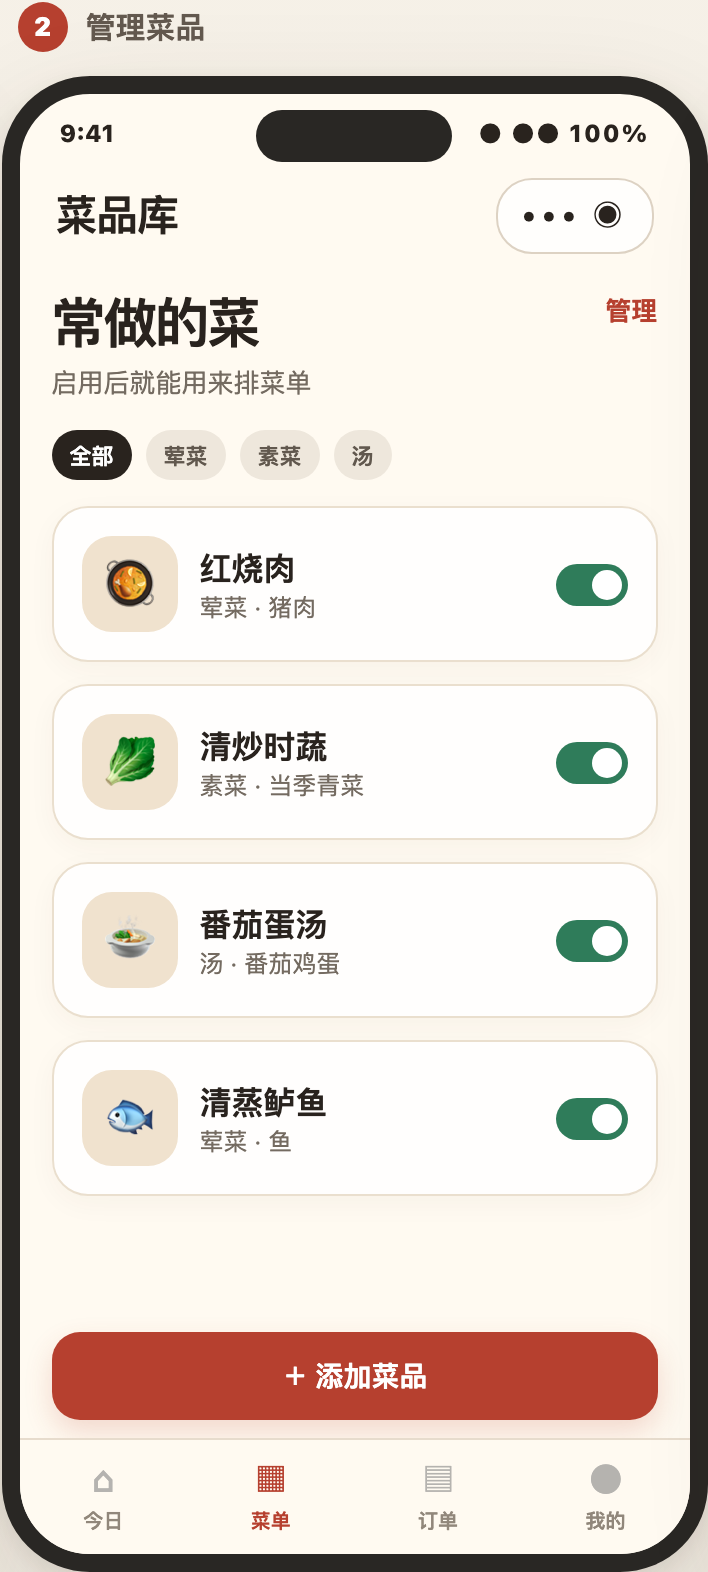
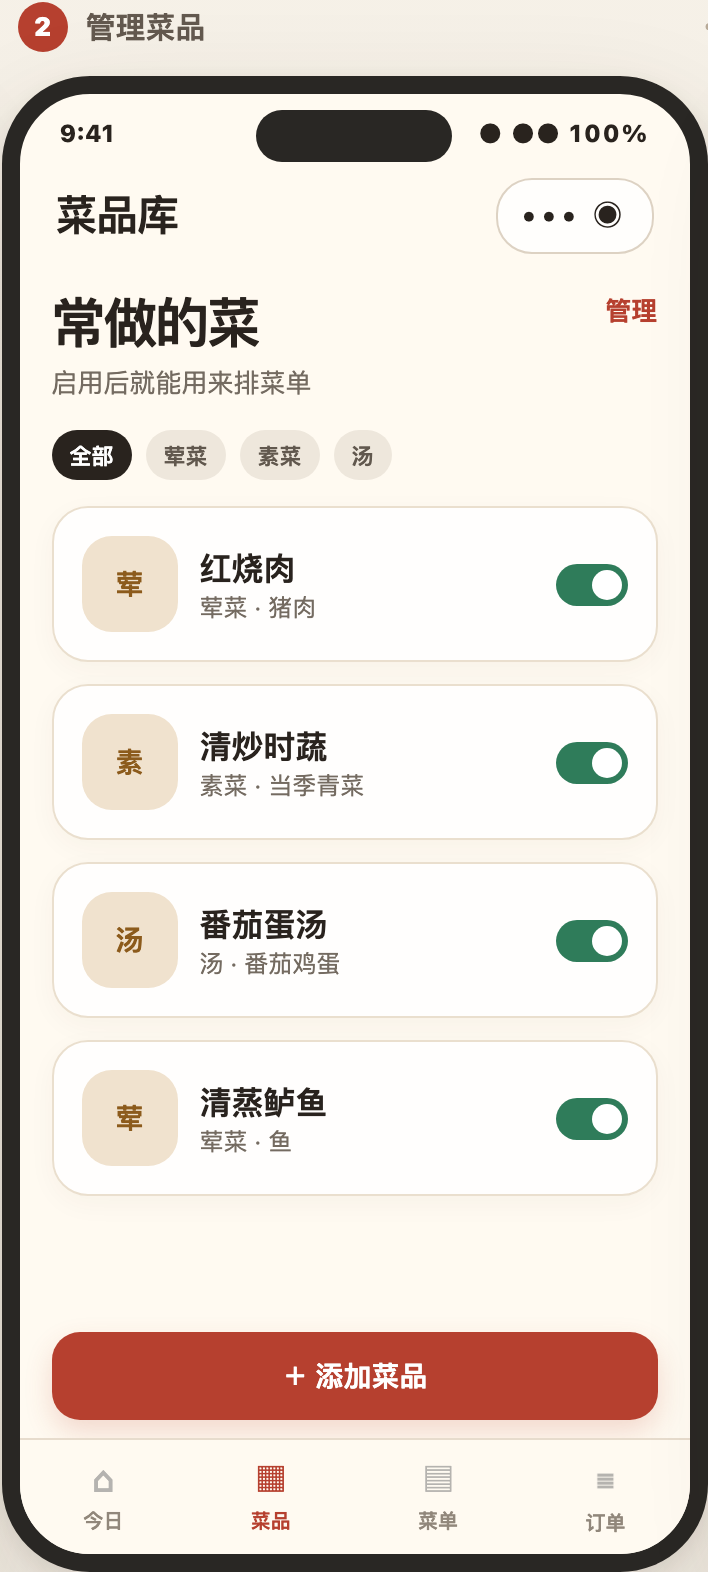
docs(kith-inn-v1): align Page 2 design baseline

diff --git a/docs/kith-inn-v1/design/kith-inn-v1-hifi-v1.html b/docs/kith-inn-v1/design/kith-inn-v1-hifi-v1.html
@@ -86,7 +86,7 @@
     .filters { display: flex; gap: 7px; margin-bottom: 13px; }
     .filters .chip.active { background: var(--ink); color: white; }
     .food { display: flex; align-items: center; gap: 11px; }
-    .food-photo { display: grid; place-items: center; flex: 0 0 48px; height: 48px; border-radius: 15px; background: #f0e2ce; font-size: 25px; }
+    .food-photo { display: grid; place-items: center; flex: 0 0 48px; height: 48px; border-radius: 15px; background: #f0e2ce; color: #8c5b1c; font-size: 14px; font-weight: 900; }
     .food-info { flex: 1; }
     .switch { width: 36px; height: 21px; padding: 3px; border-radius: 999px; background: var(--green); }
     .switch::after { content: ""; display: block; margin-left: auto; width: 15px; height: 15px; border-radius: 50%; background: white; }
@@ -180,13 +180,13 @@
             <div class="content">
               <div class="title-row"><div><h3>常做的菜</h3><div class="sub">启用后就能用来排菜单</div></div><span class="text-link">管理</span></div>
               <div class="filters"><span class="chip active">全部</span><span class="chip">荤菜</span><span class="chip">素菜</span><span class="chip">汤</span></div>
-              <div class="card"><div class="food"><div class="food-photo">🥘</div><div class="food-info"><div class="strong">红烧肉</div><div class="meta">荤菜 · 猪肉</div></div><div class="switch"></div></div></div>
-              <div class="card"><div class="food"><div class="food-photo">🥬</div><div class="food-info"><div class="strong">清炒时蔬</div><div class="meta">素菜 · 当季青菜</div></div><div class="switch"></div></div></div>
-              <div class="card"><div class="food"><div class="food-photo">🍲</div><div class="food-info"><div class="strong">番茄蛋汤</div><div class="meta">汤 · 番茄鸡蛋</div></div><div class="switch"></div></div></div>
-              <div class="card"><div class="food"><div class="food-photo">🐟</div><div class="food-info"><div class="strong">清蒸鲈鱼</div><div class="meta">荤菜 · 鱼</div></div><div class="switch"></div></div></div>
+              <div class="card"><div class="food"><div class="food-photo">荤</div><div class="food-info"><div class="strong">红烧肉</div><div class="meta">荤菜 · 猪肉</div></div><div class="switch"></div></div></div>
+              <div class="card"><div class="food"><div class="food-photo">素</div><div class="food-info"><div class="strong">清炒时蔬</div><div class="meta">素菜 · 当季青菜</div></div><div class="switch"></div></div></div>
+              <div class="card"><div class="food"><div class="food-photo">汤</div><div class="food-info"><div class="strong">番茄蛋汤</div><div class="meta">汤 · 番茄鸡蛋</div></div><div class="switch"></div></div></div>
+              <div class="card"><div class="food"><div class="food-photo">荤</div><div class="food-info"><div class="strong">清蒸鲈鱼</div><div class="meta">荤菜 · 鱼</div></div><div class="switch"></div></div></div>
               <div class="primary-dock"><div class="button">＋ 添加菜品</div></div>
             </div>
-            <nav class="tabs"><div class="tab"><i>⌂</i>今日</div><div class="tab active"><i>▦</i>菜单</div><div class="tab"><i>▤</i>订单</div><div class="tab"><i>●</i>我的</div></nav>
+            <nav class="tabs"><div class="tab"><i>⌂</i>今日</div><div class="tab active"><i>▦</i>菜品</div><div class="tab"><i>▤</i>菜单</div><div class="tab"><i>≣</i>订单</div></nav>
           </div>
         </article>
 
@@ -320,7 +320,7 @@
                 <div class="summary-row"><span>周二晚餐 × 2</span><b>¥60</b></div>
                 <div class="summary-row"><span class="strong">合计 3 份</span><b style="color:var(--red)">¥90</b></div>
               </div>
-              <div class="notice">提交后，桃子确认前仍可修改或取消</div>
+              <div class="notice">提交后，餐次未截止、未关闭且桃子确认前仍可修改或取消</div>
               <div class="button">确认登记</div>
               <div class="policy">本小程序不收取在线付款；付款由你与桃子线下完成。称呼和地址可在“我的订单”中停用。</div>
             </div>
@@ -337,7 +337,7 @@
               <div class="card warm">
                 <div class="card-title"><span>周一午餐 · 1份</span><span class="chip red">待桃子确认</span></div>
                 <div class="meta">王阿姨 · 幸福里 3 栋 201 · ¥30</div>
-                <div class="order-timeline"><span class="dot done"></span><div class="timeline-text"><b>登记成功</b><div class="meta">今天 09:43</div></div><span class="dot"></span><div class="timeline-text"><b>等待商家确认</b><div class="meta">确认前可以修改或取消</div></div></div>
+                <div class="order-timeline"><span class="dot done"></span><div class="timeline-text"><b>登记成功</b><div class="meta">今天 09:43</div></div><span class="dot"></span><div class="timeline-text"><b>等待商家确认</b><div class="meta">餐次未截止、未关闭且确认前可以修改或取消</div></div></div>
                 <div class="button-row"><div class="button secondary small">修改订单</div><div class="button secondary small">取消订单</div></div>
               </div>
               <div class="card green">